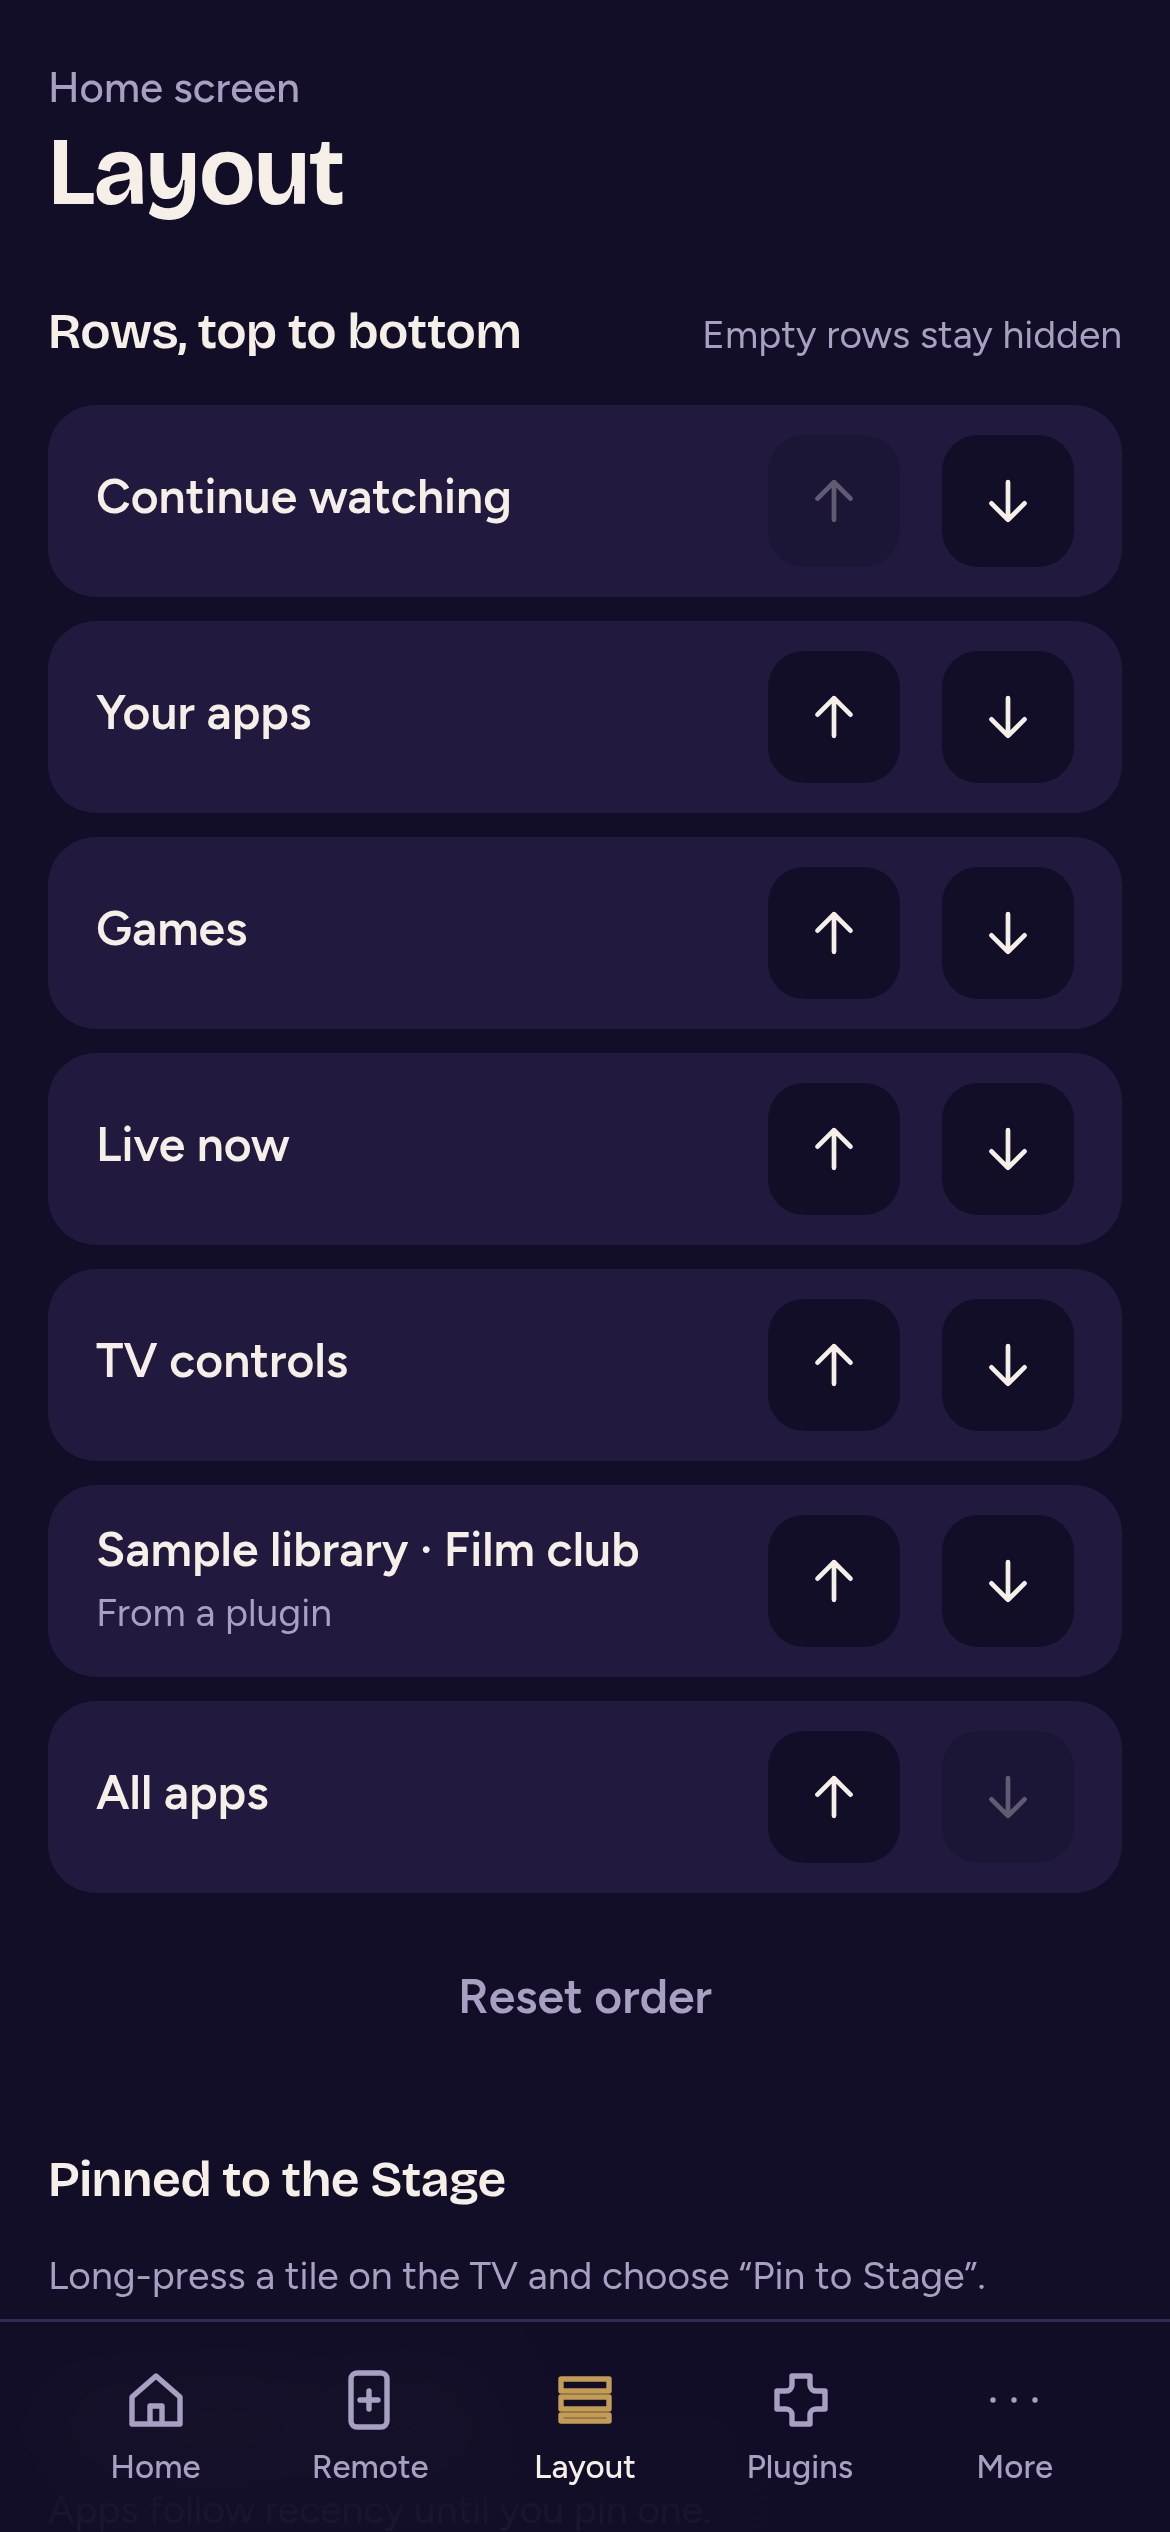
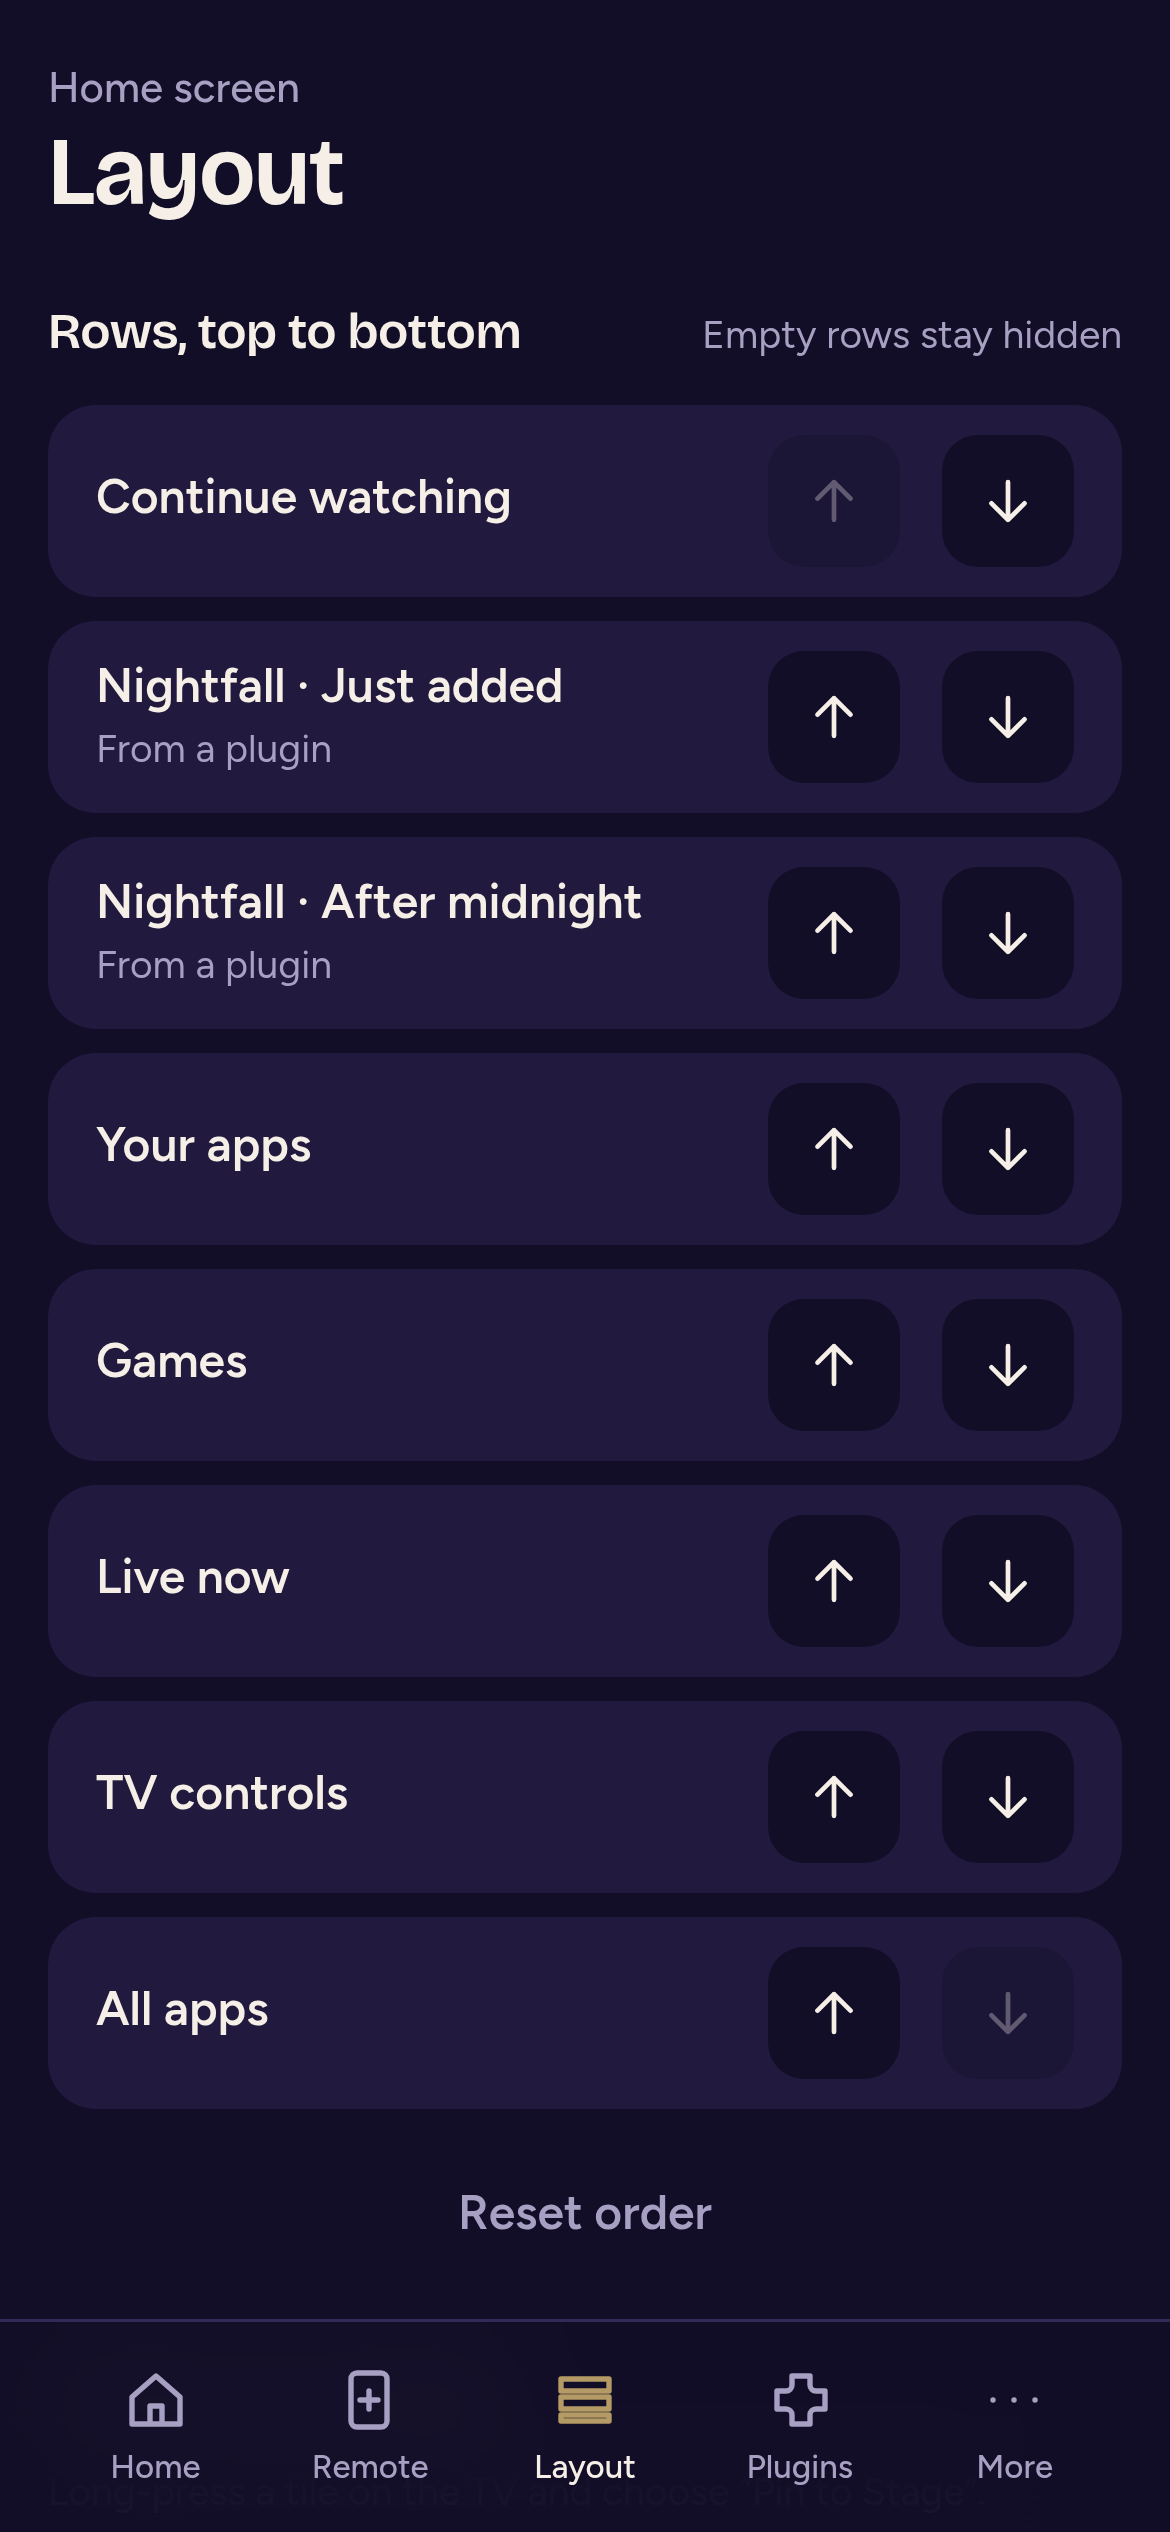
Retake the screenshots with a made-up horror library
The pictures showed the Sample library's public-domain films. They are
taken again on the Google TV Streamer from the 0.4.1 build, with a
library of invented horror films and series, and the README now says
what the new pictures show. The onboarding picture shows no films and
stays as it was.

diff --git a/README.md b/README.md
@@ -17,7 +17,7 @@
 </p>
 
 <p align="center">
-  <img src="docs/screenshots/home.png" width="920" alt="The Lounge home screen: a still from Charade large on the right, the title, year, director and a Continue button on the left, and a strip of what to watch next along the bottom">
+  <img src="docs/screenshots/home.png" width="920" alt="The Lounge home screen: a still from Static Bloom large on the right, its magenta light on the wall and the Continue button, the title, year and director on the left, and a strip of what to watch next along the bottom">
 </p>
 
 ## At a glance
@@ -124,8 +124,8 @@ also run behind the home screen, dimmed so the tiles stay the brightest thing in
 it the home screen, pairing a phone, done. Every one is reachable again from Settings.
 
 <p align="center">
-  <img src="docs/screenshots/rows.png" width="49%" alt="The Stage lowered to a band of its picture's own light, with the rows below it: Continue watching, Your apps, Games">
-  <img src="docs/screenshots/tile-menu.png" width="49%" alt="The long-press menu beside a tile, with Pin to Stage and Hide, and the room dimmed around it">
+  <img src="docs/screenshots/rows.png" width="49%" alt="The Stage lowered to a band of its picture's own light, with the rows below it: Just added, then a row of posters">
+  <img src="docs/screenshots/tile-menu.png" width="49%" alt="The long-press menu beside a poster, with Pin to Stage and Hide, and the room dimmed around it">
 </p>
 
 ## The phone
@@ -182,7 +182,8 @@ from the phone or the TV's settings.
 
 A sixteenth, **Sample library**, lives in the repository but not the APK: eighteen public-domain
 films with their posters, so you can see Lounge with something on it. The pictures in this file
-use it. [PLUGINS.md](PLUGINS.md) takes you from nothing to a plugin on your TV.
+show a made-up horror library instead: every title, poster and name in them is invented.
+[PLUGINS.md](PLUGINS.md) takes you from nothing to a plugin on your TV.
 
 Plugin submissions are welcome. Open a pull request that adds yours under `plugins/` once it
 passes the [checklist](PLUGINS.md#checklist-before-you-share-it) in PLUGINS.md.
